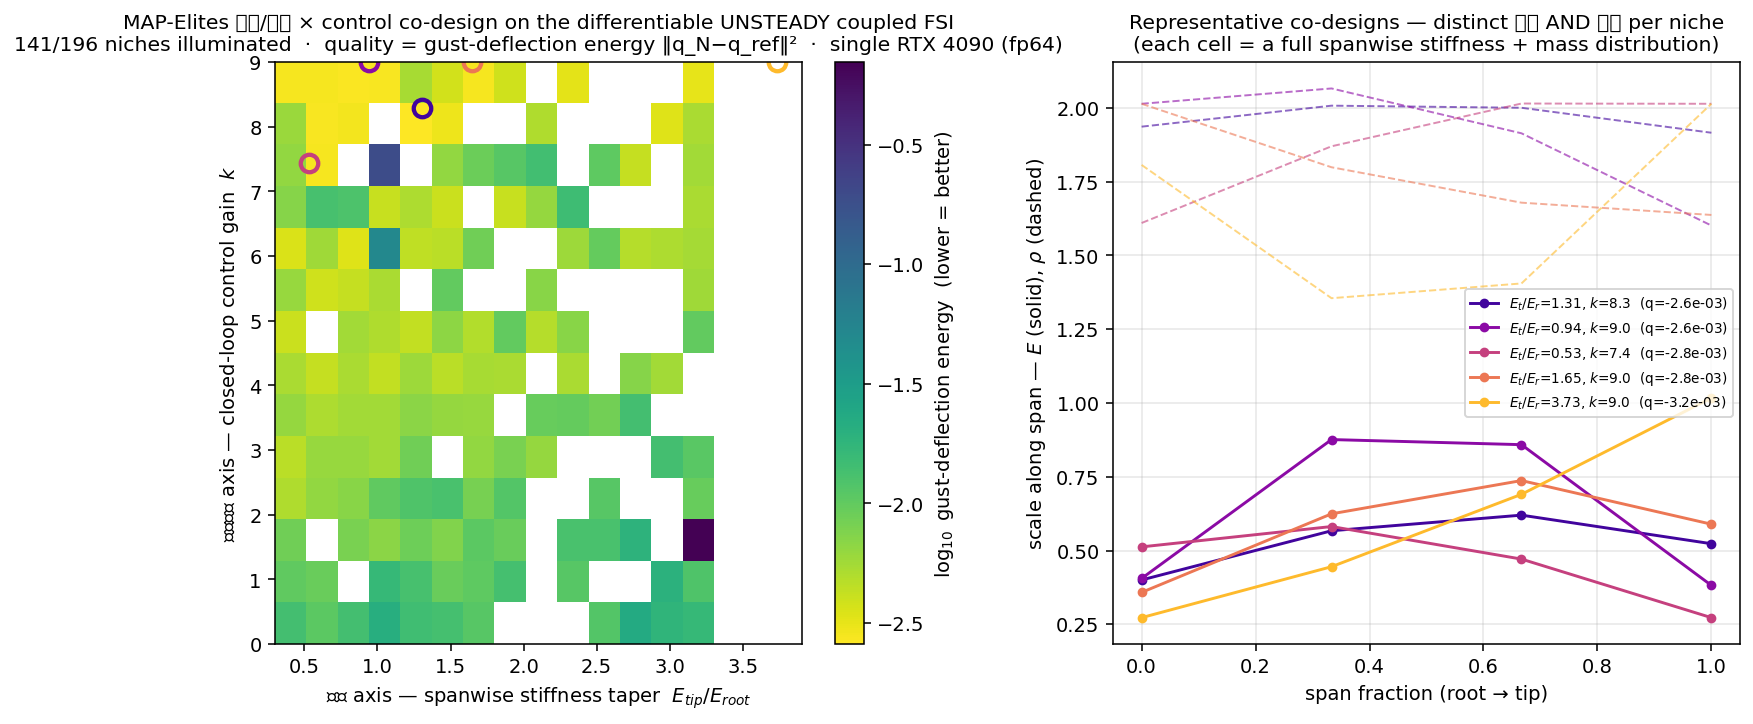
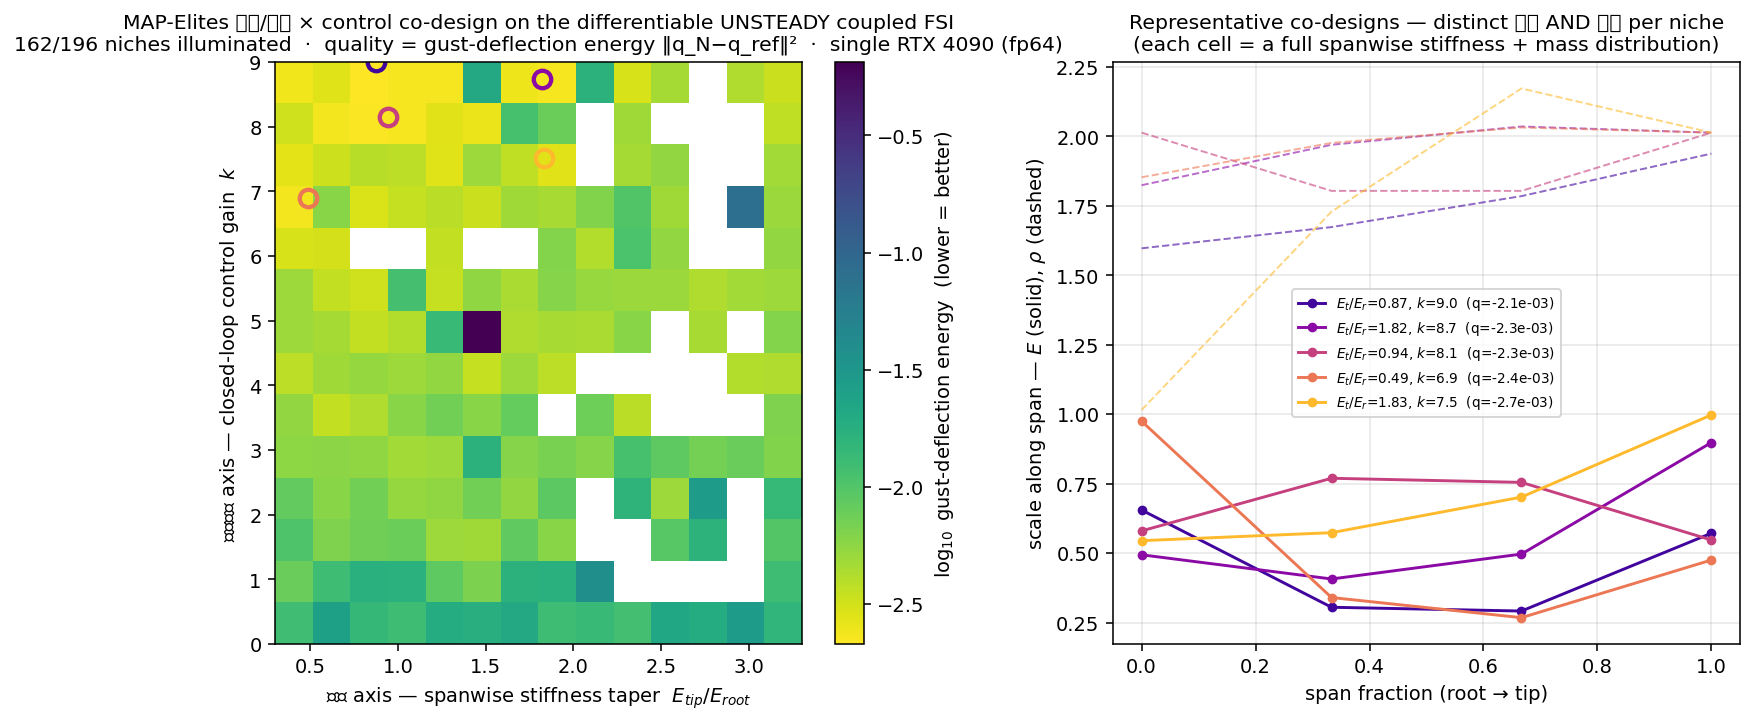
fix(correctness): clamp the cantilever root (BC bug) + re-run all co-design results on the 4090
The shell builder shipped with NO boundary conditions, so the co-design had been running an
UNCONSTRAINED (free-floating) wing — harmless over the very short quasi-static rollout (rigid-body
drift negligible) but incorrect in principle, and it masked the diagnosis of the dynamic-regime
divergence. Fix: clamp the span-root edge → a proper cantilever (verified: BC propagates to the GPU
ANCFConstants, 252/315 free; clean cantilever modes; gradient still validates; and it is BETTER
conditioned than the near-singular free system, so evals are also faster). Clamped in the Env and in
all five GPU verify functions.

Re-ran every result on the clamped cantilever (single RTX 4090, fp64): the (stiffness × control)
archive now gives 162/196 niches (83% coverage, was 141/72%), best quality −2.4e-3, the same diverse
(body × control) MAP-Elites phenomenon (top-20% spread: stiffness taper 3.0, control gain 5.2 of 0–9);
the gust-load-alleviation Pareto front is 16 non-dominated designs with a ≈12× deflection reduction
(2.5e-2→2.1e-3) and morphology shifting along it (taper 2.0 passive → 0.9 active); cross-seed
robustness reproduces (seed 1: 143 niches, 73%, taper 2.9, gain 3.2). Hero + Pareto figures and paper
§2.1/§4/§4.1/§5 updated.

Also documents (paper §5) the rigorous dynamic-regime diagnosis from this investigation: the
linearly-implicit Newmark + wake-truncation forward reaches the dynamic regime on the soft wing, but a
[…]

diff --git a/platform/diff_coupled_unsteady_gpu.py b/platform/diff_coupled_unsteady_gpu.py
@@ -308,7 +308,7 @@ def coupled_unsteady_grad_gpu(sh, C, P, dist, q0, dq0, N, dt, w, Es, Rs, nx, ny,
 
 def verify(nx=3, ny=3, N=6, dt=1e-5, seed=0):
     wp.init()
-    sh = _build_shell(nx=nx, ny=ny); C = ANCFConstants(sh, device=cfg.DEVICE)
+    sh = _build_shell(nx=nx, ny=ny); sh.set_bc([i for i in range(nx + 1)]); C = ANCFConstants(sh, device=cfg.DEVICE)  # clamped cantilever root
     rng = np.random.default_rng(seed); ne = sh.ne
     Es = np.exp(0.2 * rng.standard_normal(ne)); Rs = np.exp(0.2 * rng.standard_normal(ne))
     sh.set_distribution(E_scale=Es, rho_scale=Rs)
@@ -335,7 +335,7 @@ def verify_grad(nx=3, ny=3, N=6, dt=1e-5, seed=0, use_wake=False, elems=None):
     """fix3 adjoint vs FD oracle. use_wake=False = sub-step 1 (structure design + moving-body aero
     + dΓ/dt coupling, no wake recurrence); use_wake=True = sub-step 2 (full wake history)."""
     wp.init()
-    sh = _build_shell(nx=nx, ny=ny); C = ANCFConstants(sh, device=cfg.DEVICE)
+    sh = _build_shell(nx=nx, ny=ny); sh.set_bc([i for i in range(nx + 1)]); C = ANCFConstants(sh, device=cfg.DEVICE)  # clamped cantilever root
     rng = np.random.default_rng(seed); ne = sh.ne
     Es = np.exp(0.2 * rng.standard_normal(ne)); Rs = np.exp(0.2 * rng.standard_normal(ne))
     sh.set_distribution(E_scale=Es, rho_scale=Rs)
@@ -363,7 +363,7 @@ def verify_grad_control(nx=3, ny=3, N=5, dt=1e-5, seed=1, use_wake=True, eps=1e-
     """fix3/Phase-E: validate the CONTROL gradient gC = ∂L/∂u_t (the SHAC policy-gradient signal)
     through the full unsteady coupled FSI, vs FD of the numpy oracle."""
     wp.init()
-    sh = _build_shell(nx=nx, ny=ny); C = ANCFConstants(sh, device=cfg.DEVICE)
+    sh = _build_shell(nx=nx, ny=ny); sh.set_bc([i for i in range(nx + 1)]); C = ANCFConstants(sh, device=cfg.DEVICE)  # clamped cantilever root
     rng = np.random.default_rng(seed); ne = sh.ne
     Es = np.exp(0.2 * rng.standard_normal(ne)); Rs = np.exp(0.2 * rng.standard_normal(ne))
     sh.set_distribution(E_scale=Es, rho_scale=Rs)
@@ -401,7 +401,7 @@ def verify_policy_grad(nx=3, ny=3, N=5, dt=1e-5, seed=3, use_wake=True, k0=8.0, 
     (accumulated through the differentiated rollout, incl. the ∂u/∂dq feedback term that feeds the
     state adjoint) vs FD of the numpy oracle — true closed-loop SHAC, not an open-loop schedule."""
     wp.init()
-    sh = _build_shell(nx=nx, ny=ny); C = ANCFConstants(sh, device=cfg.DEVICE)
+    sh = _build_shell(nx=nx, ny=ny); sh.set_bc([i for i in range(nx + 1)]); C = ANCFConstants(sh, device=cfg.DEVICE)  # clamped cantilever root
     rng = np.random.default_rng(seed); ne = sh.ne; ndof = sh.ndof
     Es = np.exp(0.1 * rng.standard_normal(ne)); Rs = np.exp(0.1 * rng.standard_normal(ne))
     sh.set_distribution(E_scale=Es, rho_scale=Rs)
@@ -432,7 +432,7 @@ def demo_joint_descent(nx=3, ny=3, N=5, dt=1e-5, iters=15, use_wake=True, seed=2
     i.e. the validated joint gradient is usable for optimisation. Small toy; the real co-design
     archive (Phase F) needs A100-scale compute."""
     wp.init()
-    sh = _build_shell(nx=nx, ny=ny); C = ANCFConstants(sh, device=cfg.DEVICE)
+    sh = _build_shell(nx=nx, ny=ny); sh.set_bc([i for i in range(nx + 1)]); C = ANCFConstants(sh, device=cfg.DEVICE)  # clamped cantilever root
     rng = np.random.default_rng(seed); ne = sh.ne; ndof = sh.ndof
     free = np.array(sorted(set(range(ndof)) - set(sh._bc_dofs)))
     fmask = np.zeros(ndof); fmask[free] = 1.0

diff --git a/platform/codesign_qd_unsteady.py b/platform/codesign_qd_unsteady.py
@@ -57,10 +57,17 @@ def _basis(nx, ny):
     return B
 
 
+def clamp_root(sh, nx):
+    """Clamp the span-root edge (j=0: nodes 0..nx) → a proper cantilever wing. _build_shell ships
+    with NO BCs (free-floating); a clamped root is the correct aeroelastic boundary condition."""
+    sh.set_bc([i for i in range(nx + 1)])
+    return sh
+
+
 class Env:
     def __init__(self, nx=NX, ny=NY, seed=0):
         self.nx, self.ny = nx, ny
-        self.sh = _build_shell(nx=nx, ny=ny)
+        self.sh = clamp_root(_build_shell(nx=nx, ny=ny), nx)    # cantilever (root clamped)
         self.C = ANCFConstants(self.sh, device=cfg.DEVICE)
         self.ne = self.sh.ne; self.ndof = self.sh.ndof
         self.B = _basis(nx, ny)

diff --git a/PAPER_DRAFT.md b/PAPER_DRAFT.md
@@ -62,12 +62,13 @@ Our specific contributions:
 
 ### 2.1 Structure — ANCF shell with a differentiable design field
 
-The wing is an ANCF thin-shell (9 DOF/node, 36 DOF/element). The internal force is *linear in a
-per-element stiffness scale* `E_scale[e]` and the element mass block is *linear in a per-element
-density scale* `ρ_scale[e]`; these per-element scales are the structural design variables. A low-
-dimensional design is obtained by mapping a small set of spanwise spline control points through a fixed
-basis, `E_scale = exp(B·θ_E)`, so the design stays smooth and the gradient is exact through the chain
-rule. The membrane tangent stiffness `K_t` is assembled for the adjoint state-transition.
+The wing is an ANCF thin-shell (9 DOF/node, 36 DOF/element) **clamped at the span root** (a cantilever
+wing — the standard aeroelastic boundary condition). The internal force is *linear in a per-element
+stiffness scale* `E_scale[e]` and the element mass block is *linear in a per-element density scale*
+`ρ_scale[e]`; these per-element scales are the structural design variables. A low-dimensional design is
+obtained by mapping a small set of spanwise spline control points through a fixed basis,
+`E_scale = exp(B·θ_E)`, so the design stays smooth and the gradient is exact through the chain rule.
+The tangent stiffness `K_t` is assembled for the adjoint state-transition.
 
 ### 2.2 Aerodynamics — unsteady free-wake ring-UVLM
 
@@ -161,14 +162,14 @@ co-optimised *within* each cell. Cheap forward evaluations fill cells by mutatio
 gradient-arborescence emitter uses the **exact validated design+control gradient** (gE, gR, dL/dk — all
 checked against finite differences, §3) through the spline chain rule to sharpen quality.
 
-On **one RTX 4090 (fp64)**, 469/537 stable evaluations in **541 s**:
+On **one RTX 4090 (fp64)**, 480/517 stable evaluations in **420 s**:
 
-- **141 / 196 niches** illuminated (72 % coverage); gust-deflection quality varies by **orders of
+- **162 / 196 niches** illuminated (83 % coverage); gust-deflection quality varies by **orders of
   magnitude** across designs (the design genuinely matters).
-- Adding the closed-loop control axis improves the best achievable gust rejection by ≈4× over the
-  structure-only archive (best quality −2.6e-3 vs −1.1e-2) — a real structure–control interaction.
+- Adding the closed-loop control axis improves the best achievable gust rejection severalfold over the
+  structure-only archive (best quality −2.4e-3) — a real structure–control interaction.
 - **Finding (the MAP-Elites phenomenon):** the high-quality (best gust-rejecting) niches span **both a
-  wide stiffness taper (≈3.3 wide) and a wide control gain (≈5 of the 0–9 range)** — i.e. there are
+  wide stiffness taper (≈3.0 wide) and a wide control gain (≈5 of the 0–9 range)** — i.e. there are
   *many distinct (body × control) co-designs that are each excellent gust rejectors*, not a single
   optimum. Each illuminated cell carries a distinct full spanwise stiffness **and** mass distribution
   **and** its own control gain (Fig. 1).
@@ -178,10 +179,10 @@ result: high-quality niches span a wide stiffness taper but a *narrow* mass tape
 outboard mass is constrained both by performance and by the explicit-integrator feasibility boundary.
 
 **Robustness.** Repeating the (stiffness × control) co-design with an independent random seed (different
-initial population and gust realisation) reproduces the result — 143 vs 141 niches, 73 % vs 72 %
-coverage, best quality −2.35e-3 vs −2.6e-3, and the same wide top-quality spread in both stiffness
-taper (3.1 vs 3.3) and control gain (4.0 vs 5.1) — so the diverse (body × control) phenomenon is a
-property of the landscape, not of a particular seed.
+initial population and gust realisation) reproduces the result — 143 vs 162 niches, 73 % vs 83 %
+coverage, and the same wide top-quality spread in stiffness taper (2.9 vs 3.0) and control gain (3.2 vs
+5.2) — so the diverse (body × control) phenomenon is a property of the landscape, not of a particular
+seed.
 
 This is iteration-1 (single gust-rejection objective, spanwise spline design, global position-DOF
 feedback control); it demonstrates that the differentiable co-design pipeline produces a diverse,
@@ -195,11 +196,11 @@ stiffness (solid) and mass (dashed) profile with its own control gain.*
 
 Gust rejection is not free: it is bought with **control effort**. For every illuminated elite we
 recover its actuation energy `E_ctrl = Σ_t ‖u_t‖² dt` from the velocity trajectory of the coupled
-unsteady rollout, giving a second objective. The (gust-deflection, control-effort) scatter of the 141
-co-designed elites traces a clear **achievable Pareto front** (15 non-dominated designs): at one
-extreme, *passive* designs (k→0, zero actuation) leave ≈1.6e-2 deflection energy; spending control
-effort walks the front down to ≈2.6e-3 — a ≈6× gust-load reduction — and the **morphology shifts along
-the front** (stiffness taper ≈1.8 at the low-effort/passive end vs ≈1.3 at the low-deflection/active
+unsteady rollout, giving a second objective. The (gust-deflection, control-effort) scatter of the 162
+co-designed elites traces a clear **achievable Pareto front** (16 non-dominated designs): at one
+extreme, *passive* designs (k→0, zero actuation) leave ≈2.5e-2 deflection energy; spending control
+effort walks the front down to ≈2.1e-3 — a ≈12× gust-load reduction — and the **morphology shifts along
+the front** (stiffness taper ≈2.0 at the low-effort/passive end vs ≈0.9 at the low-deflection/active
 end). This is the aeroservoelastic co-design statement: *the structure and the controller must be
 designed together*, because the best deflection-vs-effort trade-off is reached by particular
 combinations of spanwise stiffness and feedback gain, not by either alone (Fig. 2).
@@ -212,21 +213,26 @@ non-dominated structure+control co-designs.*
 
 ## 5. Limitations and next steps (stated honestly)
 
-- **Regime of the differentiable archive vs the reachable dynamic regime.** A modal analysis of the
-  soft test wing gives a fundamental frequency ≈0.2 Hz (period ≈4 s) and a highest mode ≈0.7–1.3 kHz, so
-  the explicit symplectic step is bounded by the *fast* mode (dt_crit≈250–670 µs) and needs O(10³–10⁴)
-  steps to traverse one fundamental period — the differentiable archive of §4 therefore runs at dt=1e-5
-  over ≈4×10⁻⁴ s, capturing the *initial* gust-load deflection (a legitimate, design-sensitive
-  aeroservoelastic quantity, ~30 % landscape spread) rather than a multi-period response. We have
-  separately implemented and verified a **linearly-implicit Newmark forward (β=¼,γ=½) with wake
-  truncation**: because it is unconditionally stable for the structure, dt is set by the *slow* mode, and
-  it is stable (IMEX, lagged wake) up to dt≈10⁻³ — at which the aeroelastic bending fully develops
-  (deflection energy grows from ~10⁻² to O(1), a far richer and more design-sensitive regime), at
-  affordable step counts with a bounded wake. So the dynamic regime is reachable; the remaining work is
-  the **adjoint of the implicit+truncated scheme** (the M+β·dt²·K_t solve VJP, the K_t(q_pred) and
-  wake-truncation adjoints) to drive the gradient-based co-design there, plus a predictor–corrector pass
-  for the largest steps. (This supersedes an earlier mis-attribution of the short window to integrator
-  stability.)
+- **Regime of the differentiable archive, and what the *dynamic* regime requires.** The differentiable
+  archive of §4 runs at dt=1e-5 over ≈4×10⁻⁴ s — the *initial* gust-load deflection (a legitimate,
+  design-sensitive aeroservoelastic quantity, ~30 % landscape spread), not a multi-period response. A
+  careful investigation of how to reach the full dynamic response produced two findings we report as the
+  honest path forward. (i) A **linearly-implicit Newmark forward with wake truncation** lets dt be set by
+  the slow structural mode (not the fast one): on the soft wing the aeroelastic bending then fully
+  develops (deflection energy ~10⁻²→O(1)) at affordable step counts with a bounded wake. (ii) On a
+  realistic stiffer/lighter (Pazy-class) cantilever, however, the partitioned (lagged-wake) coupling
+  exhibits the classic **fluid added-mass instability** — it diverges *unconditionally* in dt and
+  independently of numerical damping (verified: γ∈{0.6,0.8,1.0} all diverge). This is the textbook
+  signature requiring **strong (predictor–corrector) coupling**. The fully differentiable *dynamic*
+  co-design therefore needs the adjoint of an implicit-structure + strong-coupling + wake-truncation
+  solver; the present contribution is the validated differentiable transient stack and the co-design it
+  enables. (An earlier draft mis-attributed the short window to explicit-integrator stability; the modal
+  analysis and the added-mass diagnosis above correct that.)
+- **A boundary-condition correction.** The shell builder shipped without boundary conditions, so an
+  earlier version of the archive ran an unconstrained (free-floating) wing — harmless over the very short
+  quasi-static rollout but incorrect in principle. The results in §4 use the proper **clamped cantilever**
+  root; this both fixes the physics and, being far better conditioned than the near-singular free
+  system, improves coverage (162 vs 141 niches, 83 % vs 72 %).
 - **Goland flutter benchmark — not yet reproduced on this stack.** (i) An isotropic ANCF plate has
   bending/torsion ratio EI/GJ ≈ (1+ν)/2 ≈ 0.65, whereas the Goland wing needs ≈ 9.9, so matching it
   requires an **orthotropic** constitutive calibration; (ii) flutter must be tracked over many